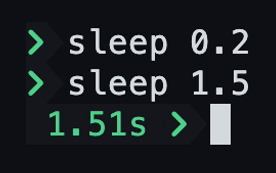
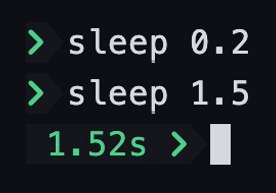
docs: space out stacked rows in the website screenshots

diff --git a/site/index.html b/site/index.html
@@ -51,7 +51,7 @@
       </div>
       <figure class="term term-hero">
         <div class="term-bar"><span></span><span></span><span></span><em>fish &mdash; ~/code/superline</em></div>
-        <img src="img/hero.png" width="1368" height="170" alt="superline's default two-row prompt: path, git branch with modified, untracked and staged counts, an open pull request with passing checks, Claude and Codex usage sparklines, and the pinned Rust toolchain on the right.">
+        <img src="img/hero.png" width="1368" height="200" alt="superline's default two-row prompt: path, git branch with modified, untracked and staged counts, an open pull request with passing checks, Claude and Codex usage sparklines, and the pinned Rust toolchain on the right.">
       </figure>
       <p class="caption">The default config, straight after <code>superline install fish</code>.</p>
     </section>
@@ -78,7 +78,7 @@
             fsmonitor) and in-process gitoxide based on the size of the index.
           </p>
         </div>
-        <figure class="term"><img src="img/git.png" width="784" height="89" loading="lazy" alt="Three prompts in a repo: a dirty main branch with one modified, two untracked and one staged file, two commits ahead and one behind; the same branch clean after git stash; then a detached HEAD shown as 13aa74d -> main."></figure>
+        <figure class="term"><img src="img/git.png" width="784" height="99" loading="lazy" alt="Three prompts in a repo: a dirty main branch with one modified, two untracked and one staged file, two commits ahead and one behind; the same branch clean after git stash; then a detached HEAD shown as 13aa74d -> main."></figure>
       </article>
 
       <article class="feature">
@@ -91,7 +91,7 @@
           </p>
           <p class="note">The lookup runs in the background, so switching branches is never slowed down by the network.</p>
         </div>
-        <figure class="term"><img src="img/pr.png" width="866" height="110" loading="lazy" alt="Four branches in turn: a grey draft PR #151, an open PR #148 with a yellow pending dot, an open PR #147 with a red failing dot, and a purple merged PR #139."></figure>
+        <figure class="term"><img src="img/pr.png" width="866" height="125" loading="lazy" alt="Four branches in turn: a grey draft PR #151, an open PR #148 with a yellow pending dot, an open PR #147 with a red failing dot, and a purple merged PR #139."></figure>
       </article>
 
       <article class="feature split">
@@ -103,7 +103,7 @@
             their own icon. Each module shows its logo when you're in a project and the version when one is pinned.
           </p>
         </div>
-        <figure class="term"><img src="img/languages.png" width="692" height="130" loading="lazy" alt="Moving between projects: a Python project, the same project with its .venv active on Python 3.13.7, a Node project pinned to 22.19.0, and a Rust project whose 1.90.0 toolchain comes from mise."></figure>
+        <figure class="term"><img src="img/languages.png" width="692" height="150" loading="lazy" alt="Moving between projects: a Python project, the same project with its .venv active on Python 3.13.7, a Node project pinned to 22.19.0, and a Rust project whose 1.90.0 toolchain comes from mise."></figure>
       </article>
 
       <article class="feature split">
@@ -114,7 +114,7 @@
             prompt red with its exit code&mdash;without clobbering the output above it.
           </p>
         </div>
-        <figure class="term"><img src="img/status.png" width="467" height="131" loading="lazy" alt="A 2.41 second duration after sleep 2.4, a gear icon with 1 after starting a background job, and a red exit code 1 after a failed cat."></figure>
+        <figure class="term"><img src="img/status.png" width="467" height="151" loading="lazy" alt="A 2.41 second duration after sleep 2.4, a gear icon with 1 after starting a background job, and a red exit code 1 after a failed cat."></figure>
       </article>
 
       <article class="feature">
@@ -126,7 +126,7 @@
             threshold and the whole widget changes colour before you hit a limit.
           </p>
         </div>
-        <figure class="term"><img src="img/usage.png" width="835" height="151" loading="lazy" alt="Claude and Codex usage in each display style: percentage, bar, capped bar, block and sparkline."></figure>
+        <figure class="term"><img src="img/usage.png" width="835" height="176" loading="lazy" alt="Claude and Codex usage in each display style: percentage, bar, capped bar, block and sparkline."></figure>
       </article>
 
       <article class="feature">
@@ -152,7 +152,7 @@
             in a row to split it into blocks.
           </p>
         </div>
-        <figure class="term"><img src="img/separators.png" width="408" height="110" loading="lazy" alt="The same path drawn with chevron, round and none separators."></figure>
+        <figure class="term"><img src="img/separators.png" width="408" height="125" loading="lazy" alt="The same path drawn with chevron, round and none separators."></figure>
       </article>
 
       <article class="feature">
@@ -163,7 +163,7 @@
             time, and your own text&mdash;each one cheap enough to leave on.
           </p>
         </div>
-        <figure class="term"><img src="img/widgets.png" width="926" height="110" loading="lazy" alt="A two-row prompt with the OS icon, custom text, the path, memory and swap usage and the time on the right, and a count of two background jobs."></figure>
+        <figure class="term"><img src="img/widgets.png" width="926" height="125" loading="lazy" alt="A two-row prompt with the OS icon, custom text, the path, memory and swap usage and the time on the right, and a count of two background jobs."></figure>
       </article>
     </section>
 

diff --git a/site/config.html b/site/config.html
@@ -114,7 +114,7 @@
         <div class="examples">
           <div class="example" data-example="rows/two-rows">
   <div class="ex-label">Two rows, both sides</div>
-  <figure class="term shot"><img src="img/config/rows-two-rows.png" width="948" height="69" loading="lazy" alt="The rows example: Two rows, both sides."></figure>
+  <figure class="term shot"><img src="img/config/rows-two-rows.png" width="948" height="74" loading="lazy" alt="The rows example: Two rows, both sides."></figure>
   <pre class="json"><code>{
   <span class="k">"theme"</span>: <span class="s">"rainbow"</span>,
   <span class="k">"rows"</span>: [
@@ -336,7 +336,7 @@
         <div class="examples">
           <div class="example" data-example="cmd/default">
   <div class="ex-label">After a success, then a failure</div>
-  <figure class="term shot"><img src="img/config/cmd-default.png" width="99" height="86" loading="lazy" alt="The cmd example: After a success, then a failure."></figure>
+  <figure class="term shot"><img src="img/config/cmd-default.png" width="99" height="96" loading="lazy" alt="The cmd example: After a success, then a failure."></figure>
   <pre class="json"><code><span class="s">"cmd"</span></code></pre>
 </div><!-- /example -->
         </div>
@@ -354,7 +354,7 @@
         <div class="examples">
           <div class="example" data-example="last_cmd_duration/default">
   <div class="ex-label">min_run_time: 500</div>
-  <figure class="term shot"><img src="img/config/last_cmd_duration-default.png" width="138" height="86" loading="lazy" alt="The last_cmd_duration example: min_run_time: 500."></figure>
+  <figure class="term shot"><img src="img/config/last_cmd_duration-default.png" width="138" height="96" loading="lazy" alt="The last_cmd_duration example: min_run_time: 500."></figure>
   <pre class="json"><code>{
   <span class="k">"left"</span>: [
     { <span class="k">"last_cmd_duration"</span>: { <span class="k">"min_run_time"</span>: <span class="n">500</span> } },
@@ -386,7 +386,7 @@
         <div class="examples">
           <div class="example" data-example="jobs/default">
   <div class="ex-label">With two background jobs</div>
-  <figure class="term shot"><img src="img/config/jobs-default.png" width="211" height="86" loading="lazy" alt="The jobs example: With two background jobs."></figure>
+  <figure class="term shot"><img src="img/config/jobs-default.png" width="211" height="96" loading="lazy" alt="The jobs example: With two background jobs."></figure>
   <pre class="json"><code>{ <span class="k">"left"</span>: [<span class="s">"jobs"</span>, <span class="s">"cmd"</span>] }</code></pre>
 </div><!-- /example -->
         </div>

diff --git a/scripts/site-screenshots/trim.py b/scripts/site-screenshots/trim.py
@@ -1,27 +1,89 @@
 """Crop the unused terminal rows (and columns) off a VHS screenshot, keeping
-the tape's padding as a uniform margin, and reduce it to a 256-colour
-palette, which a flat terminal render survives without visible loss."""
+the tape's padding as a uniform margin, open a gap between terminal rows so
+stacked prompts do not run together, and reduce it to a 256-colour palette,
+which a flat terminal render survives without visible loss."""
 
 import sys
 
 from PIL import Image, ImageChops
 
 MARGIN = 28
+ROW_GAP = 10
+# VHS scales its screenshots, so the row pitch and the first row's offset vary
+# between scenes and are found per image. Most scenes have rows every 41px from
+# y=32, which wins when the image has too few edges to tell.
+DEFAULT = (41, 32)
+PITCHES = [p / 20 for p in range(39 * 20, 43 * 20)]
+# Only long horizontal edges, such as the top and bottom of a segment, count
+# towards a row boundary; glyph strokes are much shorter.
+EDGE = 5
+EDGE_RUN = 48
+# Scaling and the video encoder blur each row's edge a pixel or two into its
+# neighbour, which would show up as a thin line beside every gap. Those pixel
+# rows are repainted from the row's own content just inside them.
+SMEAR = 2
+
+
+def edge_profile(image):
+    gray = image.convert("L")
+    width, height = gray.size
+    data = gray.tobytes()
+    profile = [0] * height
+    for y in range(1, height):
+        above = data[(y - 1) * width : y * width]
+        row = data[y * width : (y + 1) * width]
+        run = total = 0
+        for a, b in zip(above, row):
+            if abs(a - b) > EDGE:
+                run += 1
+            else:
+                if run >= EDGE_RUN:
+                    total += run
+                run = 0
+        profile[y] = total + (run if run >= EDGE_RUN else 0)
+    return profile
+
+
+def row_cuts(image, top, bottom):
+    """Pixel rows inside (top, bottom) where one terminal row meets the next."""
+    profile = edge_profile(image)
+    candidates = [DEFAULT] + [(p, s / 4) for p in PITCHES for s in range(int(p * 4))]
+    best = (-1, None, None)
+    for pitch, offset in candidates:
+        lines = range(int((top - offset) // pitch), int((bottom - offset) // pitch) + 2)
+        ys = (round(offset + k * pitch) for k in lines)
+        score = sum(profile[y] for y in ys if 0 <= y < len(profile))
+        if score > best[0]:
+            best = (score, pitch, offset)
+    _, pitch, offset = best
+    ys = (round(offset + k * pitch) for k in range(int(bottom // pitch) + 2))
+    return [y for y in ys if top + pitch / 2 < y < bottom - pitch / 2]
+
 
 for path in sys.argv[1:]:
     image = Image.open(path).convert("RGB")
-    background = Image.new("RGB", image.size, image.getpixel((1, 1)))
+    fill = image.getpixel((1, 1))
+    background = Image.new("RGB", image.size, fill)
     # Ignore near-background noise such as xterm.js's faint row highlights.
     diff = ImageChops.difference(image, background).convert("L")
     box = diff.point(lambda value: 255 if value > 24 else 0).getbbox()
     if box is None:
         continue
     left, top, right, bottom = box
-    image.crop(
-        (
-            max(left - MARGIN, 0),
-            max(top - MARGIN, 0),
-            min(right + MARGIN, image.width),
-            min(bottom + MARGIN, image.height),
-        )
-    ).quantize(256, dither=Image.Dither.NONE).save(path, optimize=True)
+    left, right = max(left - MARGIN, 0), min(right + MARGIN, image.width)
+    cuts = row_cuts(image, top, bottom)
+    for cut in cuts:
+        above = image.crop((left, cut - SMEAR - 1, right, cut - SMEAR))
+        below = image.crop((left, cut + SMEAR, right, cut + SMEAR + 1))
+        for i in range(SMEAR):
+            image.paste(above, (left, cut - 1 - i))
+            image.paste(below, (left, cut + i))
+    edges = [max(top - MARGIN, 0), *cuts, min(bottom + MARGIN, image.height)]
+    strips = [image.crop((left, a, right, b)) for a, b in zip(edges, edges[1:])]
+    height = sum(strip.height for strip in strips) + ROW_GAP * len(cuts)
+    out = Image.new("RGB", (right - left, height), fill)
+    y = 0
+    for strip in strips:
+        out.paste(strip, (0, y))
+        y += strip.height + ROW_GAP
+    out.quantize(256, dither=Image.Dither.NONE).save(path, optimize=True)

diff --git a/docs/terminal-snapshots.md b/docs/terminal-snapshots.md
@@ -183,7 +183,10 @@ COMPONENTS="git" scripts/site-screenshots/generate.sh components
 Besides the dependencies above it needs `fish`, `jq`, `uv`, and
 [Symbols Nerd Font Mono](https://github.com/ryanoasis/nerd-fonts/releases/tag/v3.5.1)
 (`NerdFontsSymbolsOnly.zip`) 3.4 or newer, which supplies the Claude and Codex
-glyphs when the installed Meslo predates them. The script also updates the
+glyphs when the installed Meslo predates them. `trim.py` crops each capture
+and opens a 10px gap between terminal rows, so stacked prompts do not run
+together; it finds the row boundaries from the long horizontal edges of the
+segments, since VHS scales its screenshots. The script also updates the
 image sizes on both pages. Commit the regenerated PNGs; the `Website`
 workflow publishes `site/` to GitHub Pages on every push to `main` that
 touches it.
